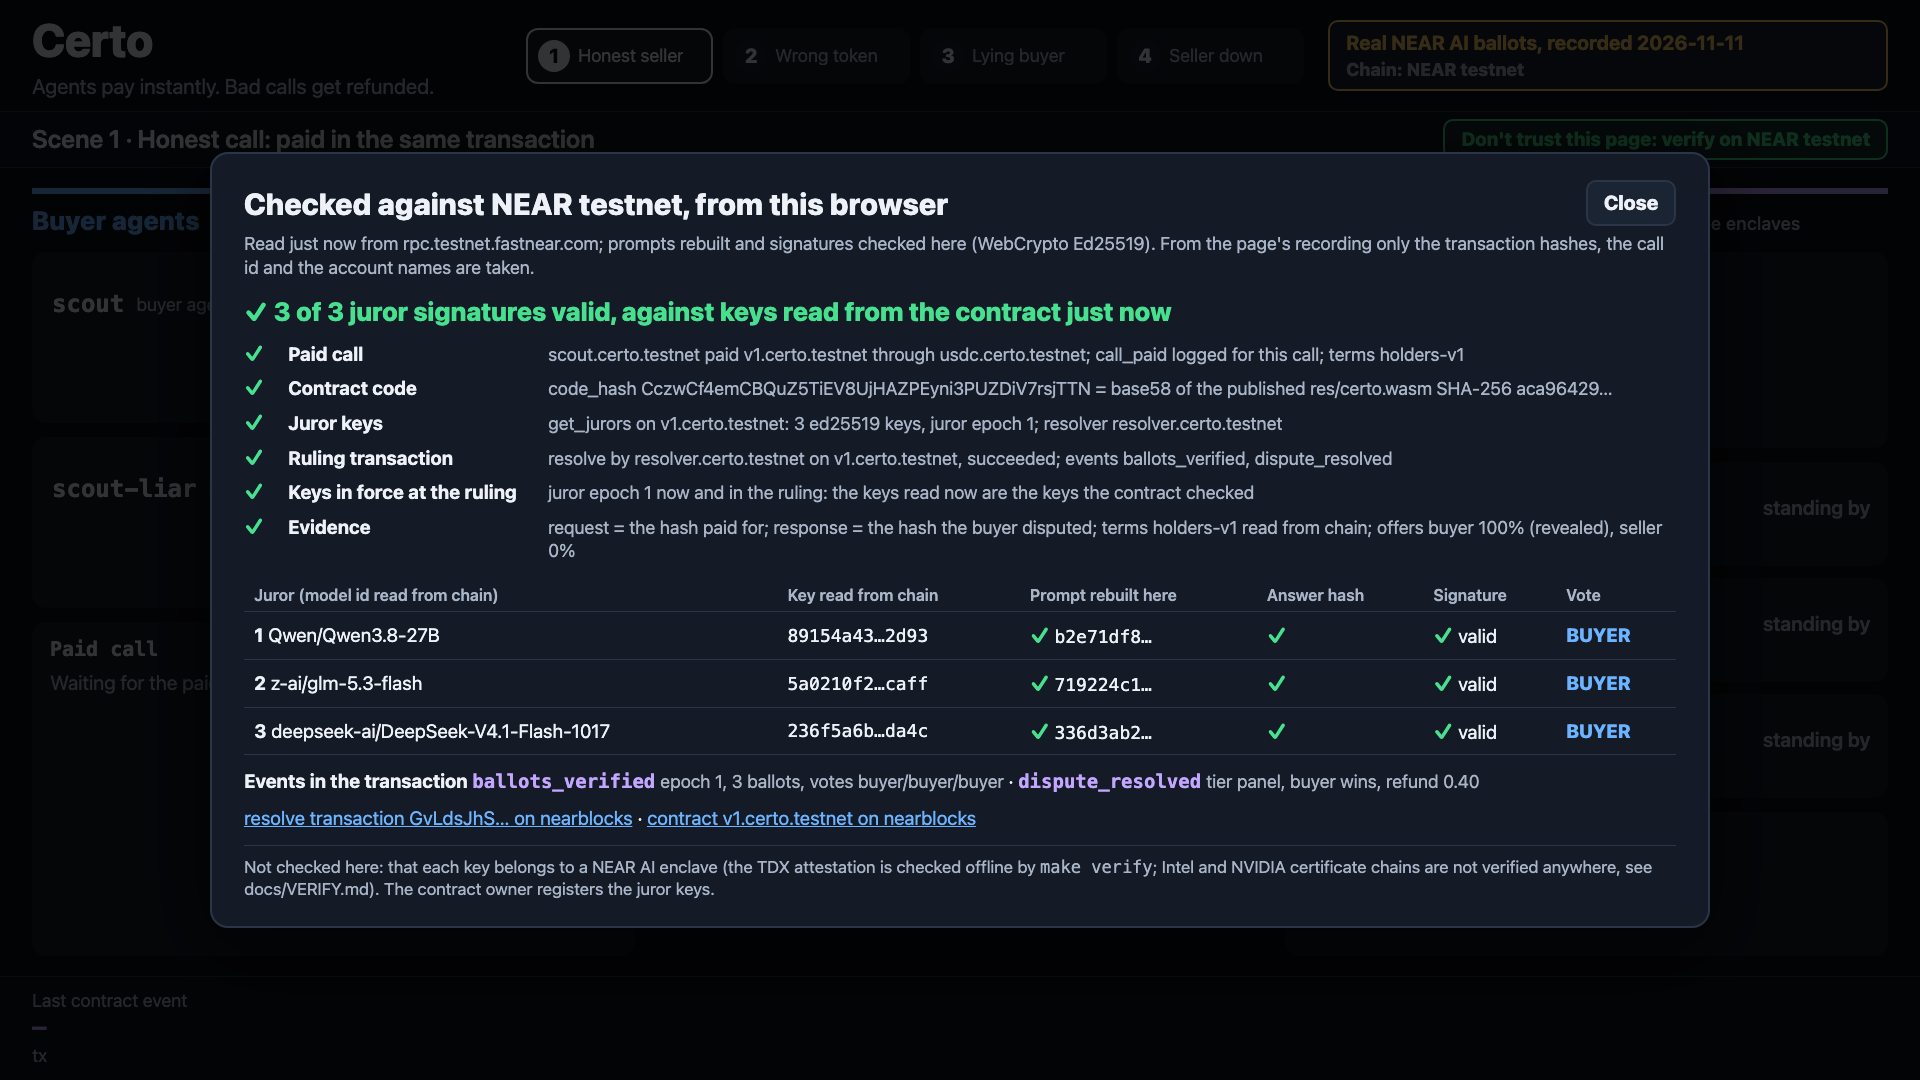
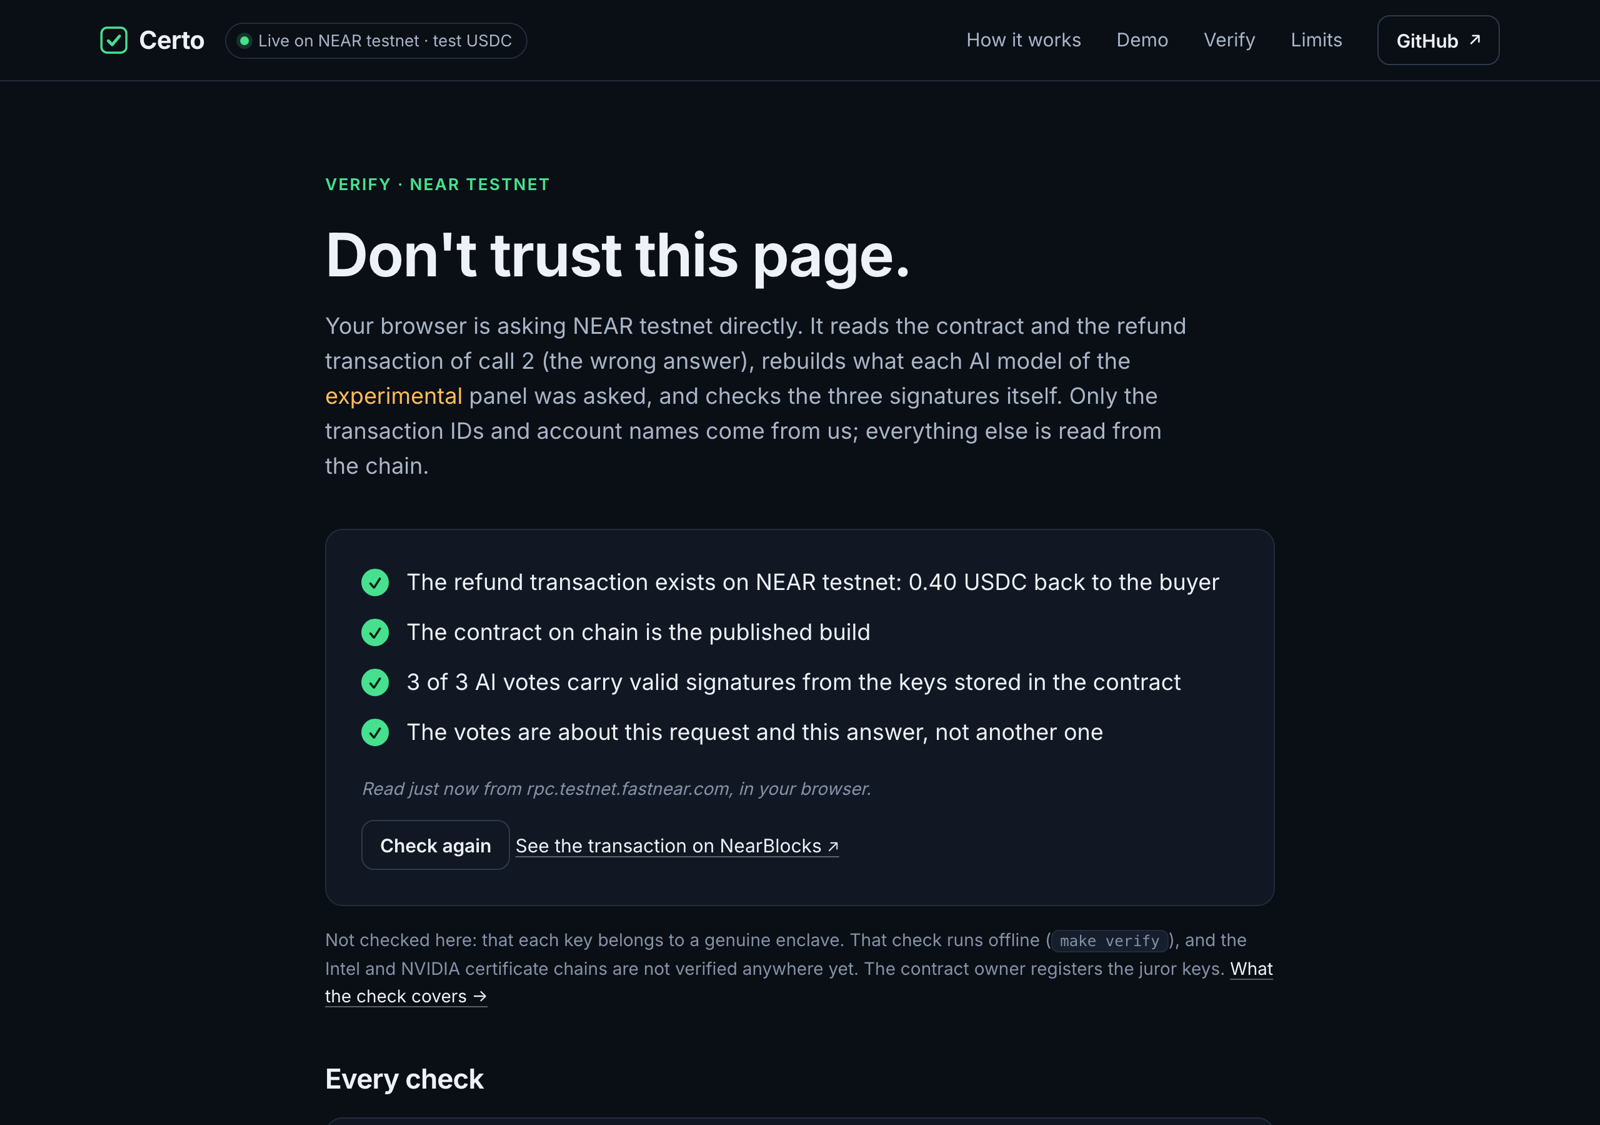
Final review fixes: re-sign on Expired after a sandbox fast-forward (G4/G16 CI flake), trust table corrections, README top and RPC proof, verify wording, typo, 219 tests
- signAndSend re-signs on Expired as well as InvalidChain (never admitted, cannot execute twice); test added and reverted-to-fail
- README: links first, current hero image and /verify screenshot, curl proof of the ruling via RPC
- Trust table: owner powers through juror keys and the contract's full-access key; dispute again after a cure; resolve has no CLI command; what the rules actually compare
- /verify and landing say exactly which inputs come from the site; landing names the timeout gap
- shady-api's bond typo; 219 TypeScript tests

diff --git a/apps/landing/index.html b/apps/landing/index.html
@@ -265,7 +265,7 @@
         <p><b>How good is the panel?</b> In our own tests it ruled correctly on 19 of 20 labelled cases, and failed 1 of 10 prompt-injection attempts. That is why it is opt-in and marked <span class="exp">experimental</span>. <a href="https://github.com/natgurlain/certo/blob/main/docs/KILLTEST.md">Read the test <span aria-hidden="true">→</span></a></p>
       </aside>
     </div>
-    <p class="aside-row"><b>What stops a buyer from lying?</b> Claiming that an answer is wrong costs the buyer a small deposit (0.02 USDC on a 0.40 call). If the <span class="exp">experimental</span> panel disagrees, the deposit is gone, and the next one doubles.</p>
+    <p class="aside-row"><b>What stops a buyer from lying?</b> Claiming that an answer is wrong costs the buyer a small deposit (0.02 USDC on a 0.40 call). If the <span class="exp">experimental</span> panel disagrees, the deposit is gone, and the next one doubles. Known gap: a buyer who never asks the panel and lets the dispute time out gets only the seller's offer, but also the deposit back, so today the deposit deters only buyers who go through the panel. <a href="https://github.com/natgurlain/certo#3-what-is-real-what-is-not">Details</a>.</p>
   </div>
 </section>
 
@@ -299,7 +299,7 @@
   <div class="wrap verify-grid">
     <div class="verify-copy">
     <h2 id="verify-h">Don't trust this page.</h2>
-    <p class="sub">Press the button and your browser asks NEAR testnet directly. It reads the contract and the refund transaction, rebuilds what each AI model of the <span class="exp">experimental</span> panel was asked, and checks the three signatures itself. Only the transaction IDs and account names come from us; everything else is read from the chain.</p>
+    <p class="sub">Press the button and your browser asks NEAR testnet directly. It reads the contract and the refund transaction, rebuilds what each AI model of the <span class="exp">experimental</span> panel was asked, and checks the three signatures itself. From us come only the transaction IDs, the account names, the published contract hash and the panel's system prompt; the page checks that prompt against the hash the contract itself logged. Everything else is read from the chain.</p>
     <p class="fine">Not checked here: that each key belongs to a genuine enclave. That check runs offline (<code>make verify</code>), and the Intel and NVIDIA certificate chains are not verified anywhere yet. <a href="https://github.com/natgurlain/certo/blob/main/docs/VERIFY.md">What the check covers <span aria-hidden="true">→</span></a></p>
     </div>
     <div class="card vbox" data-verify>
@@ -364,7 +364,7 @@ claude mcp add certo -- npx certo-mcp --playground</code></pre>
           <li>Three enclave signatures of the <span class="exp">experimental</span> AI panel checked inside the contract</li>
           <li>MCP server, CLI, buyer SDK, seller middleware</li>
           <li>Ten attacks on our own contract, each refused (<code>make guards</code>)</li>
-          <li>211 TypeScript tests, 63 Rust tests, MIT licence</li>
+          <li>219 TypeScript tests, 63 Rust tests, MIT licence</li>
         </ul>
       </div>
       <div class="limits-col">

diff --git a/packages/core/src/chain.ts b/packages/core/src/chain.ts
@@ -220,6 +220,12 @@ function noVerdict(err: unknown): boolean {
   return [408, 500, 502, 503, 504].includes(e?.cause as number) || /timeout|fetch|ECONN|socket/i.test(String(e?.message ?? err));
 }
 
+/** Rejections proving the transaction was never admitted, so signing it again cannot execute it twice. */
+function neverAdmitted(err: unknown): boolean {
+  const e = err as { type?: string; message?: string };
+  return e?.type === 'InvalidChain' || e?.type === 'Expired' || /Transaction has expired/.test(String(e?.message ?? ''));
+}
+
 /**
  * Sign `params` once and send it with a bounded total time (`timeoutMs`, default
  * `TX_TIMEOUT_MS`). Each RPC request is made once (no near-js back-off). When the node gives no
@@ -228,8 +234,9 @@ function noVerdict(err: unknown): boolean {
  * bytes** are sent again: one nonce, one hash, so it can never execute twice. Past the deadline it
  * throws `TxTimeoutError` with the hash. Only a rejection that proves the transaction was never
  * admitted, `InvalidChain` ("parent block hash doesn't belong to the current chain", seen on the
- * 2.10.0 sandbox with many concurrent transactions), leads to signing again (fresh block hash and
- * nonce), at most `tries` times. With `throwOnFailure` (default) a failed execution throws.
+ * 2.10.0 sandbox with many concurrent transactions) or `Expired` (its block hash fell out of the
+ * validity window, seen right after `sandbox_fast_forward`), leads to signing again (fresh block
+ * hash and nonce), at most `tries` times. With `throwOnFailure` (default) a failed execution throws.
  * The transaction references the latest **final** block (near-js uses the optimistic head, which
  * the 2.10.0 sandbox sometimes never makes canonical: `InvalidChain`, or a transaction it accepts
  * and never executes).
@@ -249,7 +256,7 @@ export async function signAndSend(account: Account, params: SendParams, o: { tri
     try {
       outcome = await within(sendUntilExecuted(rpc, account.accountId, hash, signed, deadline, waitLevelFor(rpc)), deadline, hash, timeoutMs);
     } catch (err) {
-      if (i < tries && (err as { type?: string }).type === 'InvalidChain') {
+      if (i < tries && neverAdmitted(err)) {
         await sleep(300 * i);
         continue;
       }

diff --git a/apps/landing/verify/index.html b/apps/landing/verify/index.html
@@ -38,7 +38,7 @@
   <div class="wrap narrow" data-verify>
     <p class="eyebrow">Verify · NEAR testnet</p>
     <h1>Don't trust this page.</h1>
-    <p class="sub">Your browser is asking NEAR testnet directly. It reads the contract and the refund transaction of call 2 (the wrong answer), rebuilds what each AI model of the <span class="exp">experimental</span> panel was asked, and checks the three signatures itself. Only the transaction IDs and account names come from us; everything else is read from the chain.</p>
+    <p class="sub">Your browser is asking NEAR testnet directly. It reads the contract and the refund transaction of call 2 (the wrong answer), rebuilds what each AI model of the <span class="exp">experimental</span> panel was asked, and checks the three signatures itself. From us come only the transaction IDs, the account names, the published contract hash and the panel's system prompt; the page checks that prompt against the hash the contract itself logged. Everything else is read from the chain.</p>
 
     <div class="card vbox">
       <ul class="vlines" data-verify-lines>

diff --git a/apps/demo/web/mock-feed.ts b/apps/demo/web/mock-feed.ts
@@ -182,7 +182,7 @@ async function script(): Promise<void> {
   await panelDispute(2, "agent", "shady-api", c2, "buyer");
   send({ kind: "log", actor: "agent", text: "refund 0.40 received, stake 0.02 returned" });
   await sleep(4000);
-  send({ kind: "scene", n: 2, title: "Wrong token: the panel decides", status: "ok", line: "Scene 2 OK: votes buyer/buyer/buyer, 3 signatures verified by contract, refund 0.400000, bond 50.000000 → 49.580000, fee 1.0% → 1.5%", caption: "3–0 for the buyer, 3 signatures checked by the contract: 0.40 back from shady-api' bond" });
+  send({ kind: "scene", n: 2, title: "Wrong token: the panel decides", status: "ok", line: "Scene 2 OK: votes buyer/buyer/buyer, 3 signatures verified by contract, refund 0.400000, bond 50.000000 → 49.580000, fee 1.0% → 1.5%", caption: "3–0 for the buyer, 3 signatures checked by the contract: 0.40 back from shady-api's bond" });
   if (STOP_AFTER <= 2) return;
   await sleep(2000);
 

diff --git a/apps/demo/src/demo.ts b/apps/demo/src/demo.ts
@@ -486,7 +486,7 @@ export async function runDemo(o: DemoOptions = {}): Promise<DemoResult> {
         feed.emit({ kind: 'resolved', scene: 2, callId: r.callId, tier: 'panel', winner: 'buyer', refund: formatUsdc(res.refund), votes: '3-0', elapsedMs: Date.now() - t });
         return {
           line: `Scene 2 asked NEAR, got NEO: content dispute, votes ${res.votes.join('/')}, 3 signatures verified by contract${synthetic ? ' (synthetic test keys)' : ''}, refund ${formatUsdc(res.refund)}, bond ${formatUsdc(s0.bond)} → ${formatUsdc(s1.bond)}, fee ${pct(s0.fee_bps)} → ${pct(s1.fee_bps)}`,
-          caption: `3–0 for the buyer, 3 signatures checked by the contract: ${cap(res.refund)} back from shady-api' bond`,
+          caption: `3–0 for the buyer, 3 signatures checked by the contract: ${cap(res.refund)} back from shady-api's bond`,
         };
       },
     },

diff --git a/packages/core/test/chain.test.ts b/packages/core/test/chain.test.ts
@@ -137,6 +137,11 @@ describe('signAndSend (scripted RPC)', () => {
     expect(calls('send_tx').length).toBe(2);
   });
 
+  it('signs again after Expired (block hash too old after a fast-forward)', async () => {
+    expect(await run({ send_tx: [invalid('Expired')] })).toEqual(OUTCOME);
+    expect([calls('send_tx').length, signings()]).toEqual([2, 2]);
+  });
+
   it('throws on a failed execution unless throwOnFailure is false', async () => {
     const failed = { ...OUTCOME, status: { Failure: { ActionError: { kind: 'x' } } } };
     await expect(run({ send_tx: [{ result: failed }] })).rejects.toMatchObject({ type: 'TxFailure' });

diff --git a/README.md b/README.md
@@ -2,16 +2,17 @@
 
 [![ci](https://github.com/natgurlain/certo/actions/workflows/ci.yml/badge.svg)](https://github.com/natgurlain/certo/actions/workflows/ci.yml)
 
-**Agents pay instantly. Bad calls get refunded.** Guards try to stop a bad agent payment; Certo gets the money back when one goes through. Built at NEAR HACKATHON (November 2026).
+**Your AI agent paid for a bad API answer. Certo gets the money back.** Guards try to stop a bad agent payment; Certo refunds one that went through. Built at NEAR HACKATHON (November 2026).
+
+**Check it in 10 seconds:** [certo-near.vercel.app/verify](https://certo-near.vercel.app/verify) (your browser reads NEAR testnet and re-checks a real refund) · **replay, 2 min:** [/demo](https://certo-near.vercel.app/demo) · **video, 60 s:** [watch](https://certo-near.vercel.app/certo-demo.mp4) · **the refund on testnet:** [2gK7DmMK…](https://testnet.nearblocks.io/txns/2gK7DmMKTdM21Nhqzri8oDW5dH8kPWvvLCVEPQcecCE8) <!-- FILL: X post with the video -->
+
+![Certo: the agent's 0.40 comes back out of the seller's bond](apps/landing/og.png)
 
 - A seller of a paid API locks a bond in a NEAR contract and is **paid in the buyer's own transaction**. No escrow, no waiting.
-- For 120 s the buyer agent can get its money back **out of that bond**: by rule (HTTP 5xx, no delivery, broken schema, stale data). Rule refunds are on for every seller; for answers that are well-formed but wrong, which no rule can catch, a seller can opt in to an experimental panel of three AI models, as both demo sellers do (see [Measured](#6-measured)).
+- For 120 s the buyer agent can get its money back **out of that bond**. Errors, no delivery, broken schema or stale data: refunded by rule, on for every seller. Answers that are well-formed but wrong, which no rule can catch: an opt-in, experimental panel of three AI models, as both demo sellers use (see [Measured](#6-measured)).
 - **No account can forge a vote under the registered juror keys.** The contract rebuilds each juror's prompt, hashes it, and checks three NEAR AI Cloud enclave signatures with `env::ed25519_verify` before the bond pays out. (The contract owner can replace the juror keys; see [Trust and limits](#3-what-is-real-what-is-not).)
 
-![Scene 2: asked NEAR, got NEO; three signed votes, verified in the browser and by the contract; refund from the bond](apps/demo/web/screenshots/scene2-end.png)
-
-[github.com/natgurlain/certo](https://github.com/natgurlain/certo) · **site:** [certo-near.vercel.app](https://certo-near.vercel.app) · **watch the replay:** [/demo](https://certo-near.vercel.app/demo) (the NEAR testnet run; [local run with all five scenes](https://certo-near.vercel.app/demo?feed=local.json)) · **check it yourself:** [/verify](https://certo-near.vercel.app/verify) (your browser reads the contract and the ruling from the testnet RPC and re-checks the three signatures itself) <!-- FILL: X post with the video -->
-MIT ([LICENSE](LICENSE)) · for agents: [llms.txt](llms.txt) · **live on NEAR testnet:** [a refund decided by three verified NEAR AI signatures](https://testnet.nearblocks.io/txns/2gK7DmMKTdM21Nhqzri8oDW5dH8kPWvvLCVEPQcecCE8) ([all transactions](#7-testnet))
+MIT ([LICENSE](LICENSE)) · for agents: [llms.txt](llms.txt) · site: [certo-near.vercel.app](https://certo-near.vercel.app) · [local run with all five scenes](https://certo-near.vercel.app/demo?feed=local.json) · [all testnet transactions](#7-testnet)
 
 ## Try it
 
@@ -89,19 +90,20 @@ A payment by an agent for an API call is final. If the response is an error, mis
 
 | Who | Can | Cannot |
 |---|---|---|
-| Contract owner | Replace the three juror keys (event `jurors_set`), change the resolver, withdraw fees | Move a bond or a stake; forge a vote under the registered keys |
+| Contract owner | Replace the three juror keys (event `jurors_set`), change the resolver, withdraw fees. Through the juror keys it decides every panel dispute, so it can move refund and ruling fee out of a panel-opted seller's bond, or a buyer's stake to the treasury. The testnet contract account still holds a full-access key, so its code can be replaced | Move a bond or a stake directly (no method does); forge a vote under the registered keys |
 | Resolver (panel service) | Submit `resolve` alone for 60 s after the seller answers; then anyone can | Change a vote (G1), swap the evidence (G7) or the prompt (G8) |
 | Seller | Answer a dispute with an offer; cure a non-delivery claim by publishing the response | Deny a receipt it signed; withdraw bond below open exposure (G6) |
-| Buyer | Dispute once, inside the window, with a stake | Invent a receipt (G5); dispute twice (G3) or late (G4); collect the midpoint by withholding its sealed offer from the panel (G16) or by splitting the jurors (G17) |
+| Buyer | Dispute once per window, inside it, with a stake | Invent a receipt (G5); dispute twice in one window (G3) or late (G4); collect the midpoint by withholding its sealed offer from the panel (G16) or by splitting the jurors (G17) |
 
-- **Panel timeout.** If no panel ruling arrives within 300 s of the seller's answer, a valid reveal above the seller's offer gets the seller's offer and the stake back. The buyer can always force a ruling itself: between 60 s and 300 s anyone may submit `resolve`, and only the buyer holds the reveal. Known gap: after the deadline anyone (in practice the seller) can settle without the reveal, which sends the buyer's stake to the treasury.
+- **Panel timeout.** If no panel ruling arrives within 300 s of the seller's answer, a valid reveal above the seller's offer gets the seller's offer and the stake back. The buyer can always force a ruling itself: between 60 s and 300 s anyone may submit `resolve`, and only the buyer holds the reveal (by calling the contract's `resolve` method directly; there is no CLI command for it yet). Known gap: after the deadline anyone (in practice the seller) can settle without the reveal, which sends the buyer's stake to the treasury.
 - **No majority.** If the three jurors reach no majority, the buyer gets only the seller's offer and its stake back, and the split is counted on both parties' public records (`seller_record.split_disputes` in `certo_quote`); a seller who plants text that confuses the jurors keeps that payment but not a clean record. Known limit of the experimental panel, chosen over a midpoint that a buyer could farm by provoking splits in its own request. A split is final: the buyer cannot re-ask for a majority (G17).
 - **Juror key rotation.** The owner can replace the juror keys. Every change emits `jurors_set` with the new epoch and keys, and every ruling's `ballots_verified` event names the epoch it was checked under, so a swap is visible on chain and any ruling can be compared with the attested keys in `fixtures/attestations/`. There is no timelock; a production deployment needs one, or no owner key at all.
 - **Re-asking and the free look.** A signature proves that an enclave serving that model gave this answer to this prompt, not that it was asked once. Whoever submits `resolve` (the resolver in the first 60 s, then the buyer, who holds the reveal) can ask each juror more than once and choose which answers to submit, or not submit at all and take the timeout rule, which returns the stake. So the stake deters only buyers who go through the panel service. Not solved; one reason the panel is experimental.
 - **Sealed offer.** The buyer reveals its offer to the panel service before `resolve`; the service is trusted not to pass it to the seller in that interval.
 - **Evidence is public.** Terms, request, response and the raw juror answers are transaction arguments. Not for private data.
 - **Size caps.** Terms and request 1,024 bytes; response 6,144 bytes for the panel and 16 KB for a cure. The seller middleware will not sign a larger response under Certo ([packages/seller/README.md](packages/seller/README.md)).
-- **False non-delivery claims** cost the buyer only gas; the seller pays one transaction to cure each. Seller state (served responses) is in memory; a restart inside a window loses the ability to cure.
+- **What the rules check.** The rules compare data the seller signed: the 5xx rule uses the seller's own signed error, and the stale rule compares the seller's own `as_of` with its own receipt time, not with block time. They catch a seller that labels its data honestly; a seller that lies about `as_of` needs the panel.
+- **False non-delivery claims** cost the buyer only gas; the seller pays one transaction to cure each. A cure reopens the call with a fresh window, so the buyer can claim again on the same call (known gap). Seller state (served responses) is in memory; a restart inside a window loses the ability to cure.
 - **Exposure.** A seller's open refund risk never exceeds its bond (G2); a clean record lowers the fee, never raises the limit.
 - **No appeal. Counters do not decay. Adoption** is untested: sellers bond only if buyers prefer bonded sellers.
 
@@ -124,7 +126,7 @@ Every row has a test and a command. `cargo test` needs Rust; everything else nee
 | Offline check of recorded ballots and attestation binding | `scripts/verify-recorded.ts` | `make verify` |
 | TypeScript and Rust encoders agree byte for byte | `fixtures/vectors.json` | `npm test -w @certo/tests` |
 
-All tests: `make test` (211 TypeScript tests, including end-to-end on the sandbox) and `cargo test --workspace` (63 Rust tests).
+All tests: `make test` (219 TypeScript tests, including end-to-end on the sandbox) and `cargo test --workspace` (63 Rust tests).
 
 ## 5. Guards
 
@@ -180,7 +182,13 @@ Run on NEAR testnet on 2026-11-13 with the final contract (`res/certo.wasm`, SHA
 | Scene 3: `resolve`, panel for the seller, lying buyer's stake forfeited | [8LBY5hjP…](https://testnet.nearblocks.io/txns/8LBY5hjPV8nphMXkn2fbJoRN5K1jFmnSGNZK39uRVTHS) |
 | Scene 4: `resolve_default`, seller did not answer, refund by rule | [6XJsXCQg…](https://testnet.nearblocks.io/txns/6XJsXCQgaRKamn66DtSFwije29dvwdBNiWFix92226vo) |
 
-![The hosted replay re-checking the scene 2 ruling against NEAR testnet from the browser](apps/demo/web/screenshots/verify-testnet.png)
+No browser needed: the same ruling straight from the testnet RPC (NearBlocks blocks scripted clients). It prints `ballots_verified`, `dispute_resolved` and the `ft_transfer` of 420000 (0.40 refund + 0.02 stake) to `agent.certo.testnet`:
+
+```sh
+curl -s https://rpc.testnet.fastnear.com -H 'content-type: application/json' -d '{"jsonrpc":"2.0","id":1,"method":"tx","params":{"tx_hash":"2gK7DmMKTdM21Nhqzri8oDW5dH8kPWvvLCVEPQcecCE8","sender_account_id":"resolver.certo.testnet","wait_until":"FINAL"}}' | jq -r '.result.receipts_outcome[].outcome.logs[]'
+```
+
+![The /verify page re-checking the scene 2 ruling against NEAR testnet from the browser](apps/demo/web/screenshots/verify-testnet.png)
 
 ## 8. Prior art
 
